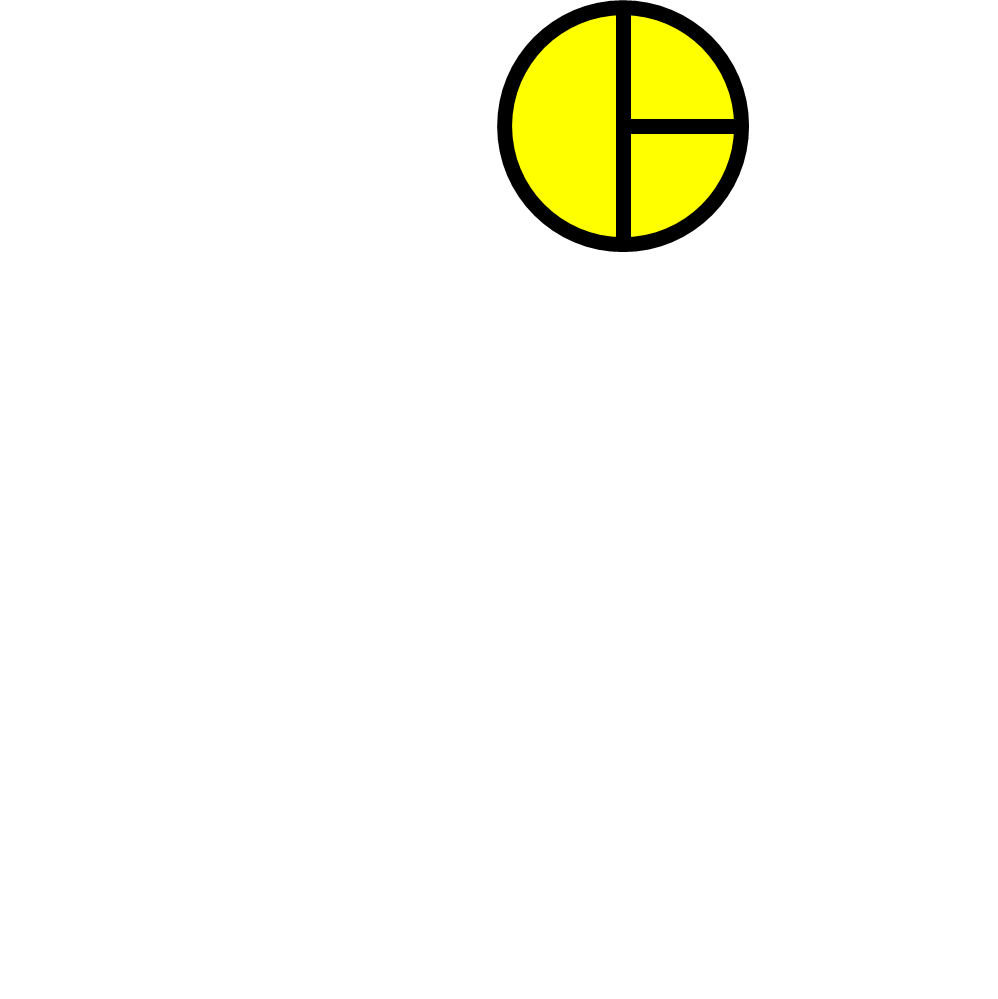
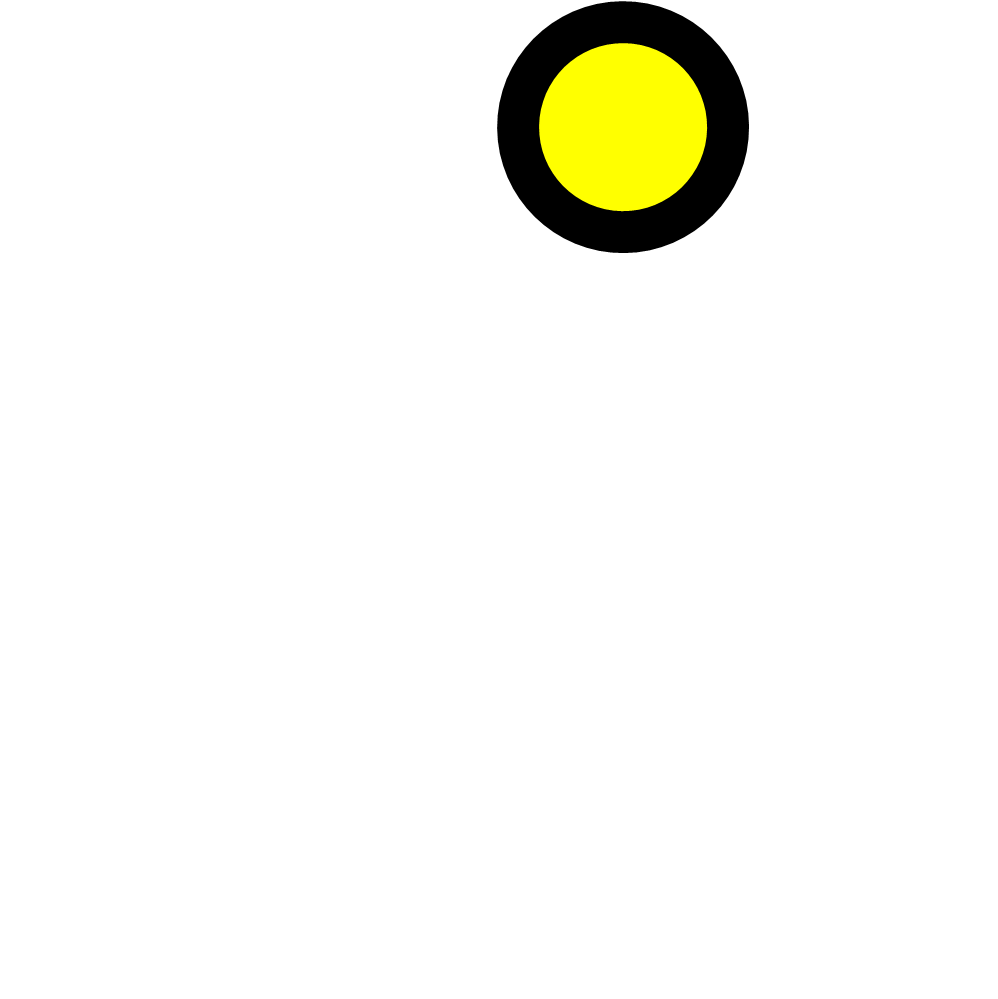
added collision showing up overlays

Changed region(s): [[0.497, 0.0, 0.7455, 0.2482]]

diff --git a/STROOP/Controls/ObjectSlot.cs b/STROOP/Controls/ObjectSlot.cs
@@ -466,6 +466,7 @@ namespace STROOP
                 if (hoveredAddress.HasValue)
                 {
                     ObjectDataModel hoveredObject = new ObjectDataModel(hoveredAddress.Value);
+
                     _drawParentOverlay = (OverlayConfig.ShowOverlayParentObject || Keyboard.IsKeyDown(Key.P)) &&
                         address == hoveredObject.Parent;
                     _drawParentNoneOverlay = (OverlayConfig.ShowOverlayParentObject || Keyboard.IsKeyDown(Key.P)) &&
@@ -477,6 +478,11 @@ namespace STROOP
                     _drawChildOverlay = (OverlayConfig.ShowOverlayParentObject || Keyboard.IsKeyDown(Key.P)) &&
                         CurrentObject?.Parent == hoveredObject.Address;
                 }
+
+                _drawCollision1Overlay = address == ObjectUtilities.GetMarioCollisionObject(1);
+                _drawCollision2Overlay = address == ObjectUtilities.GetMarioCollisionObject(2);
+                _drawCollision3Overlay = address == ObjectUtilities.GetMarioCollisionObject(3);
+                _drawCollision4Overlay = address == ObjectUtilities.GetMarioCollisionObject(4);
 
                 _drawMarkedOverlay = _manager.MarkedSlotsAddresses.Contains(address.Value);
             }

diff --git a/STROOP/Utilities/ObjectUtilities.cs b/STROOP/Utilities/ObjectUtilities.cs
@@ -34,7 +34,7 @@ namespace STROOP.Utilities
                 return null;
 
             uint collisionObjectOffset = ((uint)collisionIndex - 1) * 4;
-            return Config.Stream.GetUInt32(objAddress + collisionObjectOffset);
+            return Config.Stream.GetUInt32(objAddress + ObjectConfig.CollidedObjectsListStartOffset + collisionObjectOffset);
         }
 
         public static uint? GetMarioCollisionObject(int collisionIndex)
